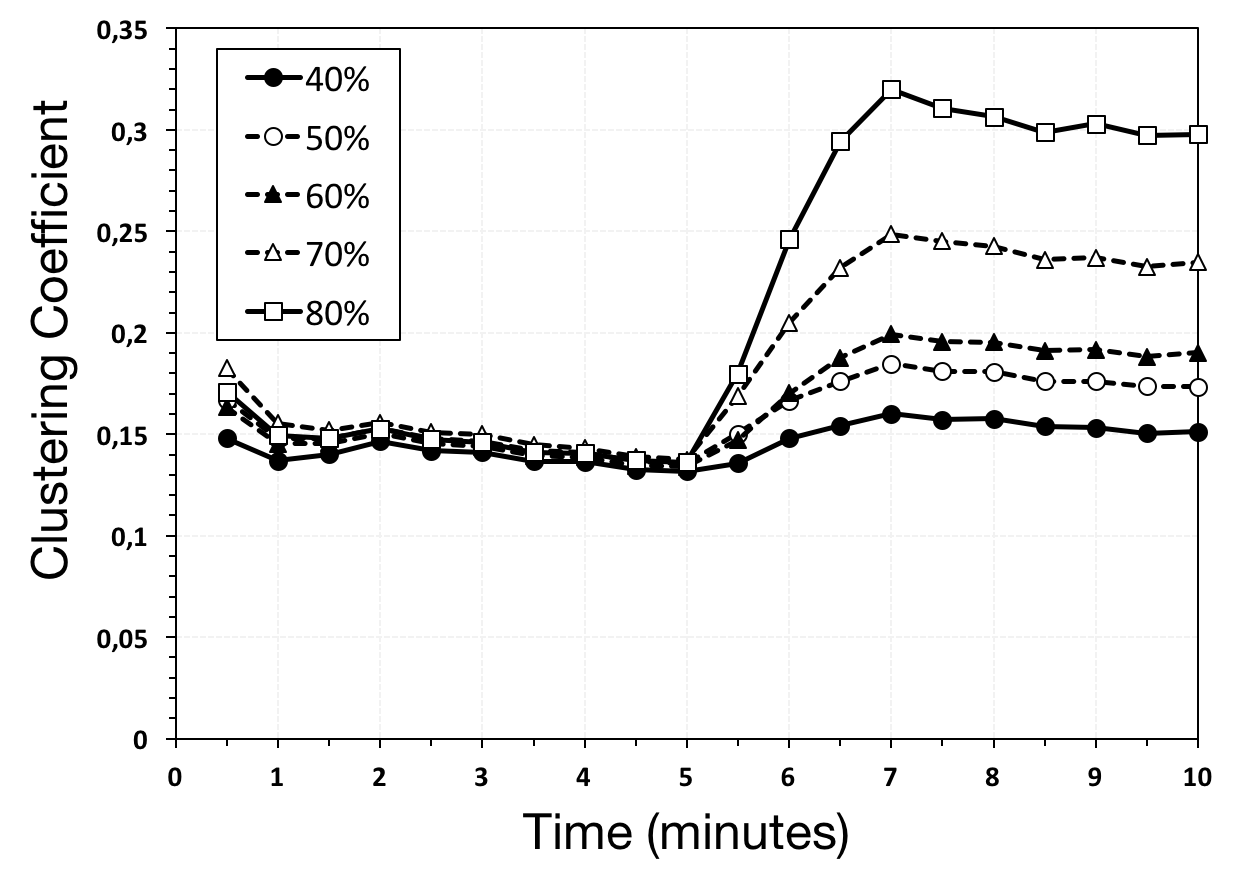
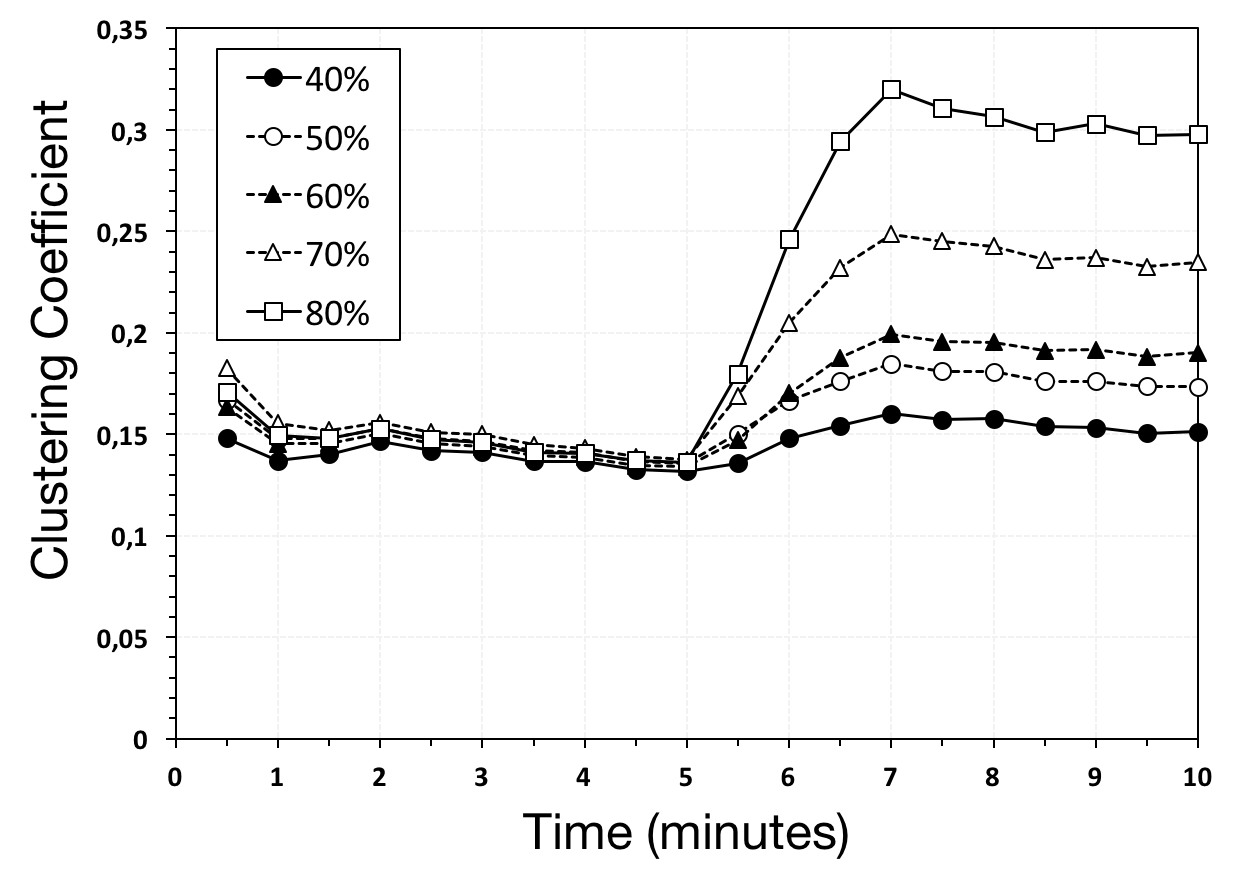
Changed line size in the graphs, update introduction, conclusions and ack

diff --git a/evaluation.tex b/evaluation.tex
@@ -122,7 +122,7 @@ The last test is shown in Fig.~\ref{fig:converged_clustering_coefficient} and it
   \caption{}
   \label{fig:paper_converged_clustering_coefficient}
 \end{subfigure}
-\caption{Clustering coefficient evolution over time with different view size. \ref{fig:converged_clustering_coefficient} represents our result, \ref{fig:paper_converged_clustering_coefficient} is the test reported in the paper.}
+\caption{Converged clustering coefficient for increasing view sizes. \ref{fig:converged_clustering_coefficient} represents our result, \ref{fig:paper_converged_clustering_coefficient} is the test reported in the paper.}
 \label{fig:randomness_conv_clustering}
 \end{figure}
 
@@ -246,7 +246,7 @@ Finally, Fig.~\ref{fig:average_indegree} shows the average in-degree of the node
 \newpage
 In the next set of experiments we measure the robustness of our implementation in case of catastrophic failures, that is, when a large number of peers leave the system at a single instant in time. All the nodes join the system at time $0$, we wait for the overlay to stabilize and then we fail a fixed percentage of nodes at time $5$ minutes. We expect that the algorithm recovers quickly and also that all the nodes remain connected, even in the worst case scenario where 80\% of the peers leave the system. As in the previous set of experiments, we test both the implementation of the \textit{getMetropolisHastingsNeighbour}.
 
-In Fig.~\ref{fig:average_hop_count_failures_1impl} we can notice that all the experiments has the same average hop count until time $5$ minutes, then it increases with increasing of failures. This is expected given the large number of broken links to detect and repair for both the base and wormhole overlays. Notice that the network remains connected even when 80\% of the nodes fail. Fig.~\ref{fig:average_hop_count_failures_2impl} shows the second implementation, as expected the average hop count, respect to the first implementation, is a little bit higher after the mass failure. Fig.~\ref{fig:paper_average_hop_count_failures} instead shows the result reported in the paper, as we can notice they have a quite bigger average hop count respect us, this is probably due to the different implementations of the tracker and random walks.
+In Fig.~\ref{fig:average_hop_count_failures_1impl} we can notice that all the experiments has the same average hop count until minute $5$, then it increases with the increasing of failures. This is expected given the large number of broken links to detect and repair for both the base and wormhole overlays. Notice that the network remains connected even when 80\% of the nodes fail. Fig.~\ref{fig:average_hop_count_failures_2impl} shows the second implementation, as expected the average hop count, compared to the first implementation, is a little bit higher after the mass failure. Fig.~\ref{fig:paper_average_hop_count_failures} instead shows the result reported in the paper, as we can notice they have a quite bigger average hop count than us, which is probably due to the different implementations of the tracker and random walks.
 
 \begin{figure}
 \centering
@@ -272,7 +272,7 @@ In Fig.~\ref{fig:average_hop_count_failures_1impl} we can notice that all the ex
 \label{fig:robustness_hop_count_failures}
 \end{figure}
 
-Fig.~\ref{fig:average_clustering_coefficient_failures} shows the evolution of the clustering coefficient: it increases with increasing of failures, since there are less nodes in the network and they are much more connected between each other. 
+Fig.~\ref{fig:average_clustering_coefficient_failures} shows the evolution of the clustering coefficient: it increases with the increasing of failures, since there are less nodes in the network and they are much more connected between each other. 
 
 \begin{figure}
 \centering
@@ -292,7 +292,7 @@ Fig.~\ref{fig:average_clustering_coefficient_failures} shows the evolution of th
 \label{fig:robustness_clustering_coefficient_failures}
 \end{figure}
 
-One important experiment in case of massive failures is to measure the average number of dead links in the views of the peers. What we want to obtain is a system which detect and replace the broken links as fast as possible, and in the same way it has to eliminate all the dead links from the views of the live nodes. Fig.~\ref{fig:average_dead_links} shows the result: at time $5$ the number of dead links increases (obviously the higher the failures, the higher the number of dead links), however after just one minute all the broken links are successfully deleted from the views (even in the worst case where 80\% of the nodes fail), and the average number returns equals to zero. This result is even better of the one shown in the original paper, because the time employed by them to replace the links is two minutes, we do it in half time. This is probably due the fact that we use a tracker, which has high availability and it responds to all the nodes immediately, while they use the random walks, so they need more time to find a node and establish a new network connection.
+One important experiment in case of massive failures is to measure the average number of dead links in the views of the peers. What we want to obtain is a system which detect and replace the broken links as fast as possible, and in the same way it has to eliminate all the dead links from the views of the live nodes. Fig.~\ref{fig:average_dead_links} shows the result: at time $5$ the number of dead links increases (obviously the higher the failures, the higher the number of dead links), but anyway after just one minute all the broken links are successfully deleted from the views (even in the worst case where 80\% of the nodes fail), and the average number returns equal to zero. This result is even better than the one shown in the original paper, because the time employed by them to replace the links is two minutes, while our system takes half the time to do it. This is probably due the fact that we use a tracker, which has high availability and it responds to all the nodes immediately, while they use random walks, so they need more time to find a node and establish a new network connection.
 
 \begin{figure}
 \centering
@@ -308,12 +308,12 @@ One important experiment in case of massive failures is to measure the average n
   \caption{}
   \label{fig:paper_average_dead_links}
 \end{subfigure}
-\caption{Clustering coefficient evolution in a flash crowd scenario. \ref{fig:average_dead_links} represents our result, \ref{fig:paper_average_dead_links} is the test reported in the paper.}
+\caption{Average number of dead links in a flash crowd scenario. \ref{fig:average_dead_links} represents our result, \ref{fig:paper_average_dead_links} is the test reported in the paper.}
 \label{fig:robustness_dead_links_failures}
 \end{figure}
 
 \newpage
-In the last test shown in Fig.~\ref{fig:robustness_hop_count_churn} we want to measure the robustness under different level of churn, as they did in the original paper. We maintain the same timeout of $10$ seconds and the same percentage of nodes that continuously join and leave. In Fig.~\ref{fig:average_hop_count_churn_1impl} we notice that our implementation is robust to all the various level of churn, even in a better way than the original. This is due to WebRTC: in fact we do not have a failure detector that captures the failure of a node (with the relative problematics), but is all handled inside the EasyRTC Framework. This give us the possibility to immediately capture the ``failure'' event and replace the broken link with a new one, without undermine the average hop count. In Fig.~\ref{fig:average_hop_count_churn_2impl} we have the second implementation, and as we can notice the average is higher than the first implementation, although it is lower than the original represented in Fig.~\ref{fig:paper_average_hop_count_churn}.
+In the last test shown in Fig.~\ref{fig:robustness_hop_count_churn} we want to measure the robustness under different levels of churn, as they did in the original paper. We maintain the same timeout of $10$ seconds and the same percentage of nodes that continuously join and leave. In Fig.~\ref{fig:average_hop_count_churn_1impl} we notice that our implementation is robust to all the various levels of churn, even in a better way than the original. This is due to WebRTC: in fact we do not have a failure detector that captures the failure of a node (with the relative problematics), but is all handled inside the EasyRTC Framework. This give us the possibility to immediately capture the ``failure'' event and replace the broken link with a new one, without undermining the average hop count. In Fig.~\ref{fig:average_hop_count_churn_2impl} we have the second implementation, and as we can notice the average is higher than the first implementation, although it is lower than the original represented in Fig.~\ref{fig:paper_average_hop_count_churn}.
 
 \begin{figure}
 \centering
@@ -335,7 +335,7 @@ In the last test shown in Fig.~\ref{fig:robustness_hop_count_churn} we want to m
   \caption{}
   \label{fig:paper_average_hop_count_churn}
 \end{subfigure}
-\caption{Average hop count in catastrophic failure scenarios with different ratios of failed nodes.  \ref{fig:average_hop_count_churn_1impl} represents our result in the first implementation (\textit{getMetropolisHastingsNeighbour} over all the connected peers), \ref{fig:average_hop_count_churn_2impl} represent our result in the second implementation(\textit{getMetropolisHastingsNeighbour} over the base overlay) and \ref{fig:paper_average_hop_count_churn} is the test reported in the paper.}
+\caption{Average hop count under varying levels of churn.  \ref{fig:average_hop_count_churn_1impl} represents our result in the first implementation (\textit{getMetropolisHastingsNeighbour} over all the connected peers), \ref{fig:average_hop_count_churn_2impl} represent our result in the second implementation(\textit{getMetropolisHastingsNeighbour} over the base overlay) and \ref{fig:paper_average_hop_count_churn} is the test reported in the paper.}
 \label{fig:robustness_hop_count_churn}
 \end{figure}
 

diff --git a/sommario.tex b/sommario.tex
@@ -4,7 +4,7 @@
 \label{sommario}
 
 \addcontentsline{toc}{chapter}{Introduction} % da aggiungere comunque all'indice
-Gossip-based communication protocols have been applied successfully in large scale systems with important applications which include information dissemination, aggregation, overlay topology management and synchronization. The common property of these protocols is that each node in the system periodically exchanges information with a subset of its peers. The choice of this subset is crucial to the wide dissemination of the gossip. Ideally, any given node should exchange information with peers that are selected following a uniform random sample of \textit{all} nodes currently in the system. However, providing each node with a complete membership table from which a random sample can be drawn, is unrealistic in a large-scale dynamic system, because maintaining such tables in the presence of churn (meaning that nodes can join or leave at any given point in time) incurs considerable synchronization costs. 
+Gossip-based communication protocols have been successfully applied in large scale systems with important applications which include information dissemination, aggregation, overlay topology management and synchronization. The common property of these protocols is that each node in the system periodically exchanges information with a subset of its peers. The choice of this subset is crucial to the wide dissemination of the gossip. Ideally, any given node should exchange information with peers that are selected following a uniform random sample of \textit{all} nodes currently in the system. However, providing each node with a complete membership table from which a random sample can be drawn, is unrealistic in a large-scale dynamic system, because maintaining such tables in the presence of churn (meaning that nodes can join or leave at any given point in time) incurs considerable synchronization costs. 
 
 So the Peer Sampling Service (PSS), the underlying service that provides each node with a list of peers, is a fundamental distributed component of gossip-based protocols. A PSS can be implemented as a centralized service, using gossip protocols or random walks. Gossip-based PSSes~\cite{gossip_protocol} have been the most widely adopted solution, as centralized PSSes are expensive to run reliably, and random walks are only suitable for stable networks, i.e. with very low levels of churn. 
 
@@ -12,11 +12,10 @@ In order to handle situations in which the nodes can not communicate directly wi
 
 State of the art of NAT-aware gossip protocols, such as Gozar~\cite{gozar}, require peers to frequently establish network connections and exchange messages with public nodes, nodes that support direct connectivity, in order to build a view of the overlay network. This design is based on two assumptions: the first one is that the connection establishment from a private to a public peer comes at negligible cost, and the second one is that the connection setup time is short. However, in many Peer-To-Peer applications like for example Google WebRTC~\cite{webrtc}, these assumptions do not hold. In general, establishing a connection is a relatively complex and costly procedure: for security reasons but also to overcome the problems of NATs traversal. 
 
-In 2013 has been presented the Wormhole Peer Sampling Service~\cite{wormhole}, it provides the same properties of other PSSes (freshness of samples, randomness, robustness to different level of churn, NAT-friendliness) while it decrease the connection establishment rate by one order of magnitude. In our project we want to provide an alternative implementation of this algorithm, using WebRTC as ``network handler''. 
+In 2013 has been presented the Wormhole Peer Sampling Service~\cite{wormhole}, which provides the same properties of other PSSes (freshness of samples, randomness, robustness to different level of churn, NAT-friendliness) while it decreases the connection establishment rate by one order of magnitude. 
 
-WebRTC is an Application Programming Interface (API) definition that supports browser-to-browser applications. It is already implemented in the Chrome, Firefox and Opera browsers, and it is perfectly suitable for our purpose because it could be used from multiple types of device (personal computer, but also smart-phones) since it works on browsers.
+The goal of this thesis is to provide an alternative implementation of this algorithm, using WebRTC as ``network handler''. WebRTC is an Application Programming Interface (API) definition that supports browser-to-browser applications. It is already implemented in the Chrome, Firefox and Opera browsers, and it is perfectly suitable for our purpose because it could be used from multiple types of device (personal computer, but also smart-phones) since it works on browsers. In this way our implementation could be used to build a peer-to-peer application connecting smart-phones to a personal computer.
 
-We will show that our implementation maintains the same properties as the original, while it decreases the average hop count. We also give an implementation of a gossip-based aggregation protocol that is built on top of our PSS. 
+We will show that our implementation maintains the same properties as the original while it is more robust to churn. We also give an implementation of a gossip-based aggregation protocol that is built on top of our PSS, testing it with a lot of experiments and measuring the convergence time.
 
-
-
+In Section~\ref{cha:webrtc} we give an introduction on WebRTC, in Section~\ref{cha:wormhole} we explain the WPSS algorithm, in Section~\ref{cha:implementation} we show the main parts of our implementation and the differences from the original one, in Section~\ref{cha:evaluation} we evaluate our protocol through a lot of tests in a simulation environment, we also include in Section~\ref{cha:aggregation} the implementation of a gossip-based aggregation protocol with some evaluation tests. In the final conclusions, Section~\ref{cha:conclusions}, we discuss the obtained results, the limitations of our model and some suggestions for possible solutions.

diff --git a/conclusions.tex b/conclusions.tex
@@ -12,4 +12,4 @@ In order to support our implementation we built on top of it a gossip-based aggr
 
 Some refinements could be considered to improve the reliability of this implementation. First of all, we implemented the tracker as a central service. The tracker is contacted at bootstrap time and when a node needs a reference of a new peer. The WPSS is designed to keep as low as possible the number of new connections created. However, in presence of churn, the tracker could be a bottleneck, because it has relative high load and it may waste resources. Another important case is that, when the tracker crashes, no-one can get a reference of a new node. Handling the latter situation is simpler, we could just insert a second tracker that acts as a backup server; in this way when the primary server crashes, all the requests go automatically to the secondary one. This not solve the problem of churn, that could be solved only inserting 2 primary servers and dividing the traffic between them. 
 
-The same problem for the EasyRTC server, which has to register all the nodes inside the network. Also in this case, there is the possibility to add redundancy in the system, creating more than one server in order to have some of them that acts as backup servers. Then, each node decides which of them to contact, and if for some reason that server goes down, it connects to another one. 
+The same problem applies to the EasyRTC server, which has to register all the nodes inside the network. Also in this case, there is the possibility to add redundancy in the system, creating more than one server in order to have some of them that acts as backup servers. Then, each node decides which of them to contact, and if for some reason that server goes down, it connects to another one. 

diff --git a/ringraziamenti.tex b/ringraziamenti.tex
@@ -1,7 +1,7 @@
 \thispagestyle{empty}
 
 \begin{center}
-  {\bf \Huge Acknowledgment}
+  {\bf \Huge Acknowledgments}
 \end{center}
 
 \vspace{4cm}
@@ -22,5 +22,5 @@
 }
 
 \emph{
-	Last but not least, I would like to thank my friends and roommates Alessio and Davide, the memories of the last 2 years that we passed together are indelible. To all my friends, thank you for listening, offering me advice, and supporting me through this entire process.
+	Last but not least, I would like to thank my friends and roommates Alessio and Davide, the memories of the last 2 years that we passed together are unforgettable. To all my friends, particularly Kappa, thank you for listening, offering me advice, and supporting me through this entire process.
 }

diff --git a/spadini_davide.tex b/spadini_davide.tex
@@ -137,7 +137,7 @@
       \newpage
       \newpage
       \cleardoublepage
-      % \input{evaluation}
+      \input{evaluation}
       \newpage
       \cleardoublepage
       \input{aggregation}
